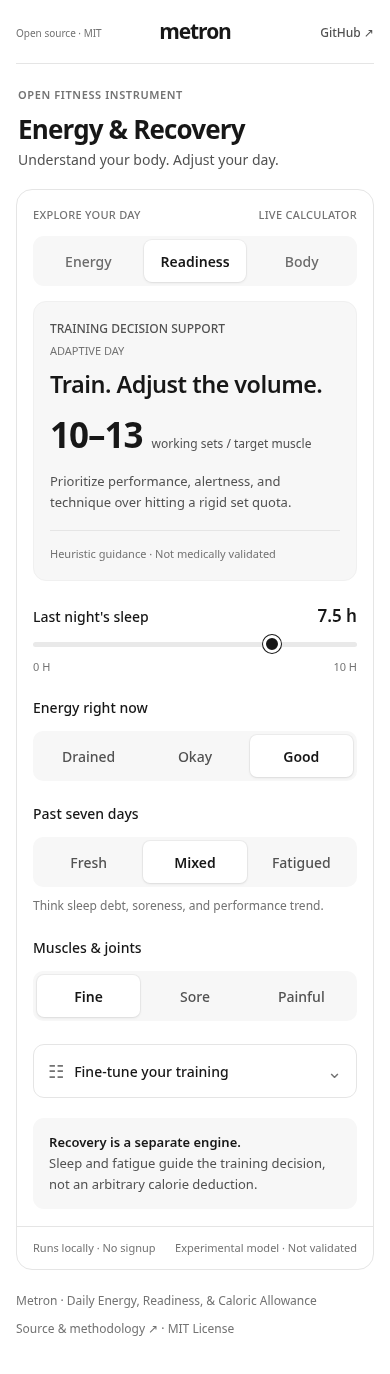
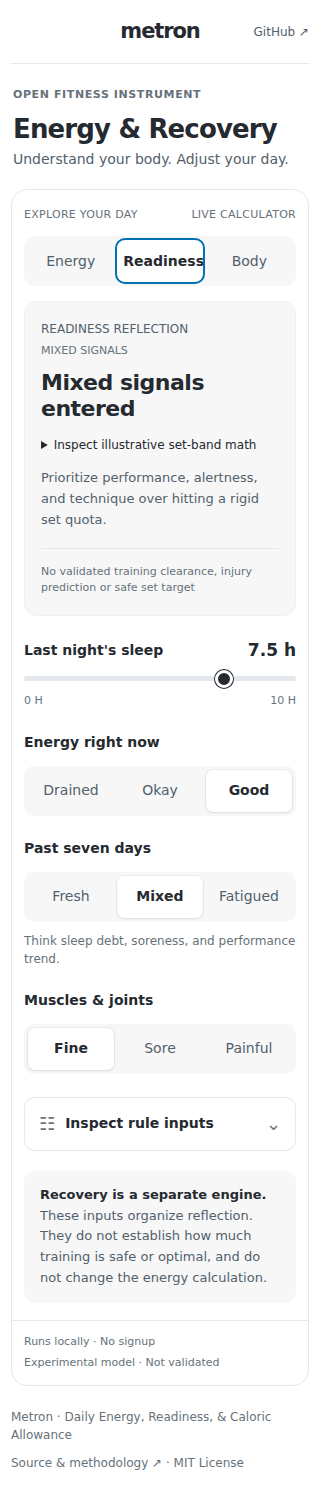
Close bounded software gate and preserve honest remaining evidence blockers

diff --git a/research/robustness/README.md b/research/robustness/README.md
@@ -8,7 +8,7 @@
 
 **Program:** `METRON-ROBUST-001` · **Established:** 7 November 2026
 
-**Current checkpoint:** [all-gate execution record](CHECKPOINT.md). H0–H5 are complete at declared scope, H7 is under verification, and H6/H8 retain explicit evidence blockers. Clinical applicability remains unreviewed.
+**Current checkpoint:** [all-gate execution record](CHECKPOINT.md). H0–H5 and H7 are complete at declared scope, and H6/H8 retain explicit evidence blockers. Clinical applicability remains unreviewed.
 
 **Tracker:** [issue #22](https://github.com/andydrewie/metron/issues/22)
 
@@ -31,16 +31,16 @@ H0 inventories the current source, advertised capabilities, research entrypoints
 | **H2 · Current evidence and contradictions** | Execute documented searches of primary studies and authoritative guidance; record dates, corrections/retractions, counterevidence, versions, rights and claim-level applicability. | All five slices complete at bounded scope |
 | **H3 · Measurement and energy accounting** | Audit reference methods, input error, gross/net expenditure, baseline allocation, activity membership, missingness and incompatible wearable semantics. | Complete as an audit with explicit no-go boundaries |
 | **H4 · External validity** | Admit relevant independent data; freeze endpoints, paired comparisons, subgroup harms and decision margins before analysis; reproduce results independently. | Complete for independent resting replication; TDEE accuracy no-go |
-| **H5 · Readiness and decision boundaries** | Define readiness/performance endpoints, audit current set recommendations, evaluate prospective predictive value, or explicitly retain/restrict unsupported guidance. | See canonical plan and checkpoint |
-| **H6 · Uncertainty and individual value** | Separate cohort intervals, input sensitivity and individual prediction uncertainty; evaluate calibration forward in time and whether users understand the decision limits. | See canonical plan and checkpoint |
-| **H7 · Software, privacy and accessibility** | Exercise public API/CLI/browser contracts, malformed inputs, privacy failures, dependency/build assumptions, keyboard/mobile and color-independent comprehension. | Implementation complete; hosted verification pending |
-| **H8 · Reconstruction and maintenance** | Complete a clean-checkout reproduction and a separately recorded agent navigation/rebuild exercise; verify evidence update and supersession procedures while preserving open gaps. | See canonical plan and checkpoint |
+| **H5 · Readiness and decision boundaries** | Define readiness/performance endpoints, audit current set recommendations, evaluate prospective predictive value, or explicitly retain/restrict unsupported guidance. | Complete through explicit restriction/no-go; no prospective outcome claim |
+| **H6 · Uncertainty and individual value** | Separate cohort intervals, input sensitivity and individual prediction uncertainty; evaluate calibration forward in time and whether users understand the decision limits. | Blocked on real-user comprehension and decision-value evidence |
+| **H7 · Software, privacy and accessibility** | Exercise public API/CLI/browser contracts, malformed inputs, privacy failures, dependency/build assumptions, keyboard/mobile and color-independent comprehension. | Complete at bounded software/browser review scope |
+| **H8 · Reconstruction and maintenance** | Complete a clean-checkout reproduction and a separately recorded agent navigation/rebuild exercise; verify evidence update and supersession procedures while preserving open gaps. | Blocked on genuinely fresh-agent recovery; scripted reproduction passed |
 
 Dependencies in `plan.json` are authoritative. H2 and H3 follow H1; H4 and H5 can then proceed independently. H7 can start after H1. H8 tests reconstruction once H1 and H7 are complete and must preserve the actual state of the other gates. H6 has separate RMR/TDEE and readiness tracks: only the applicable H4 or H5 track is a prerequisite. An unsupported readiness branch must not indefinitely block independent RMR work.
 
 Gate progress is claim- and domain-specific. Any partial passage must name its exact scope, evidence and outstanding criteria; it does not close the whole gate. `complete` means all declared acceptance criteria for that gate are reviewed, with evidence. Negative results and explicit no-go decisions can satisfy an investigation; they cannot be relabeled as successful physiological validation. The audit command never promotes a gate automatically.
 
-**Immediate next task:** finish H7 hosted verification, then execute the [H8 cold-start task](h8/COLD_START_TASK.md) in a genuinely new context. H6 needs real-user and longitudinal evidence; implementation or paperwork cannot substitute for it.
+**Immediate next task:** execute the [H8 cold-start task](h8/COLD_START_TASK.md) in a genuinely new context. H6 needs real-user and longitudinal evidence; implementation or paperwork cannot substitute for it.
 
 ## A multidimensional applicability map
 

diff --git a/research/robustness/CHECKPOINT.md b/research/robustness/CHECKPOINT.md
@@ -1,6 +1,6 @@
 # Robustness checkpoint · 9 November 2026
 
-**Nine main gates exist, H0–H8. All remaining gates have been worked through.** H0–H5 are complete within their declared scope. H7 software changes await hosted verification. H6 and H8 remain blocked on evidence an automated self-review cannot supply. The canonical state is [plan.json](plan.json); this checkpoint does not claim clinical validation.
+**Nine main gates exist, H0–H8. All remaining gates have been worked through.** H0–H5 are complete within their declared scope. H7 software/privacy/accessibility review is complete at bounded scope, making seven completed gates. H6 and H8 remain blocked on evidence an automated self-review cannot supply. The canonical state is [plan.json](plan.json); this checkpoint does not claim clinical validation.
 
 | Gate | Outcome |
 | --- | --- |
@@ -10,11 +10,11 @@
 | H4 | Independent cohort replication: 89 eligible records; paired Cunningham MAE difference −104.5 kcal/day, 95% sampling interval −127.5 to −80.1; general default retained |
 | H5 | Readiness prescriptions restricted; prospective protocol prepared, not run |
 | H6 | Blocked: real-user comprehension/decision benefit missing; individual calibration stays unimplemented |
-| H7 | Privacy, validation and UI fixes implemented; hosted browser checks pending |
-| H8 | Historical replay, bounded rebuild and maintenance rehearsal prepared; fresh-agent exercise still required |
+| H7 | Complete: privacy/input fixes, 129 Node tests, 8 Python privacy tests, hosted browser checks and four screenshot reviews |
+| H8 | Clean-checkout historical replay, bounded rebuild and maintenance rehearsal passed; fresh-agent exercise still required |
 
 Read [H4](h4/README.md) for the protocol/amendment, cohort limits and independent numerical reconstruction. Read [ADR-0007](../../docs/adr/0007-restrict-unvalidated-personal-decisions.md) for the interpretation restrictions. Package 0.2.0-alpha.4 changes interfaces; numerical model 0.1.0 is preserved. Original G0–G4 files remain unchanged.
 
-**Next after software verification:** execute [the H8 cold-start task](h8/COLD_START_TASK.md) in a genuinely new context. H6 needs actual intended-user observations and an appropriate longitudinal reference dataset before claims can expand. No automatic monitor is installed. Recheck provider sources by 9 December 2026 and other bounded reviews in February 2027 or before consequential reuse.
+**Next executable task in a new context:** execute [the H8 cold-start task](h8/COLD_START_TASK.md) in a genuinely new context. H6 needs actual intended-user observations and an appropriate longitudinal reference dataset before claims can expand. No automatic monitor is installed. Recheck provider sources by 9 December 2026 and other bounded reviews in February 2027 or before consequential reuse.
 
 The corpus is designed for reuse through 7 November 2027. Currentness is maintained through dated inspections and explicit gaps, not promised for twelve months without review. Clinical applicability, whole-day accuracy, personalized targets and safe/optimal set counts remain unestablished.

diff --git a/README.md b/README.md
@@ -36,7 +36,7 @@ An open-source fitness instrument with an independently usable, headless calcula
 
 <p align="center"><img src="./docs/assets/v41-palette.svg" width="100%" alt="Metron V4.1 colors: soft slate baseline, blue walking and copper workout, each with text labels and numeric values" /></p>
 
-<sub>UI screenshots below document the preceding monochrome V4 layout; the live site is authoritative for the updated V4.1 palette.</sub>
+<sub>UI screenshots below capture the V4.1 interface with alpha.4 interpretation and input fixes. See the [H7 verification record](./research/robustness/h7/verification.json) for the exact source commit, browser and scope.</sub>
 
 
 **Mobile-first preview.** This is the actual app at phone size—not a desktop screenshot shrunk into a mobile screen. Tap the image to open it at full resolution.
@@ -66,7 +66,7 @@ The desktop image captures the entire browser viewport; open it full size to ins
 
 **Current measured-science workstream:** [Resting energy validation program](./research/ree-validation/README.md) · [GitHub tracking dashboard](https://github.com/andydrewie/metron/issues/9). **G0–G4 complete:** [454-person RMR results](./research/ree-validation/G3_RESULTS.md) and [the decision to retain the default with scoped guidance](./research/ree-validation/G4_DECISION.md) are published. This is one fixed-equation cohort reanalysis, not validation of the combined daily-energy or readiness estimator.
 
-**Current robustness program:** [checkpoint](./research/robustness/CHECKPOINT.md) · [canonical gate/weakness state](./research/robustness/plan.json) · [tracker #22](https://github.com/andydrewie/metron/issues/22). H0–H5 are complete at declared scope; H7 is under verification. H6 human evidence and H8 fresh-agent recovery remain blocked. Research reuse through 7 November 2027 is independently valuable; clinical applicability remains unreviewed.
+**Current robustness program:** [checkpoint](./research/robustness/CHECKPOINT.md) · [canonical gate/weakness state](./research/robustness/plan.json) · [tracker #22](https://github.com/andydrewie/metron/issues/22). H0–H5 and H7 are complete at declared scope: seven of nine gates. H6 human evidence and H8 fresh-agent recovery remain blocked. Research reuse through 7 November 2027 is independently valuable; clinical applicability remains unreviewed.
 
 **Research-only iPhone pilot:** [Read-only Apple HealthKit sample attribution](./research/apple-healthkit-pilot/README.md) (requires Xcode and your device's separate Health permission; not an existing web feature).
 

diff --git a/docs/CONTINUE.md b/docs/CONTINUE.md
@@ -8,7 +8,7 @@ Copy this into a new chat, optionally with the conversation link:
 
 ## Checkpoint
 
-There are nine main gates H0–H8; H2 has five evidence slices. H0–H5 are complete at declared scope. H7 input/privacy/interface fixes are under hosted verification. H6 remains blocked on real-user comprehension/decision-value evidence, with calibration unimplemented. H8 has historical replay, a bounded Python rebuild and maintenance drills; the genuinely fresh-agent exercise remains outstanding.
+There are nine main gates H0–H8; H2 has five evidence slices. H0–H5 are complete at declared scope. H7 input/privacy/interface fixes passed hosted verification. Seven of nine gates are complete. H6 remains blocked on real-user comprehension/decision-value evidence, with calibration unimplemented. H8 has historical replay, a bounded Python rebuild and maintenance drills; the genuinely fresh-agent exercise remains outstanding.
 
 H4 independently analyzes a different resting cohort: 89 eligible records, one transparently excluded under an existing BF bound. Cunningham's paired MAE difference is −104.5 kcal/day, 95% sampling interval −127.5 to −80.1. Published outcomes were already known; frozen protocol and amendment precede newly inspected errors. The general default stays Mifflin, Cunningham remains an explicit option. See H4 for source, preparation and population limits. Neither cohort validates combined TDEE, personal calorie targets, clinical use or readiness.
 

diff --git a/docs/QA.md b/docs/QA.md
@@ -1,4 +1,12 @@
-# QA — Metron Research Instrument `0.2.0-alpha.3`
+# QA · Metron Research Instrument
+
+**Current alpha.4 checkpoint, 9 November 2026:** 129 Node tests, 8 Python privacy tests, release preflight and hosted Chromium checks passed. Keyboard navigation, accessible names/roles, invalid-state propagation, export provenance and 320px/1280px layouts were checked. Four current synthetic screenshots were visually inspected. Exact source/run, methods, failed attempts and limits are recorded in [H7 verification](../research/robustness/h7/verification.json).
+
+Current captures: [mobile](assets/mobile.png), [readiness](assets/recovery.png), [body](assets/body.png), [desktop](assets/desktop.png). They use the checked source served over localhost in hosted CI, not a live Pages session. Actual screen-reader use, broad device coverage, human comprehension and whole-product physiological accuracy remain unestablished. The archived narrow/tablet captures belong to earlier releases.
+
+## Historical alpha.3 pre-publication record
+
+The dated record below preserves what was established before publication. Its pending-publication statements and test counts do not describe current main; use the current checkpoint and live deployment checks for that.
 
 **Status:** local pre-publication release candidate, 2026-11-05. **Scientific model:** `0.1.0`; no new physiological coefficients introduced. The GitHub repository and Pages URL have **not** been verified live.
 

diff --git a/research/robustness/h7/README.md b/research/robustness/h7/README.md
@@ -1,6 +1,6 @@
 # H7 · Software, privacy and accessibility
 
-**Implementation completed; browser verification pending.** The audit covers the SDK, direct exports, CLI, browser input/export state and research replay. It is a bounded software review, not a security certification or proof of clinical accuracy.
+**Complete at bounded review scope.** Hosted checks passed on commit `71301ba1f6946d9eacea2cac9ab6e194007a0be3`; [verification.json](verification.json) records the run, methods and limitations. All four synthetic screenshots were visually inspected at 320px/1280px. The audit covers the SDK, direct exports, CLI, browser input/export state and research replay. It is a bounded software review, not a security certification or proof of clinical accuracy.
 
 | Finding | Change | Verification |
 | --- | --- | --- |
